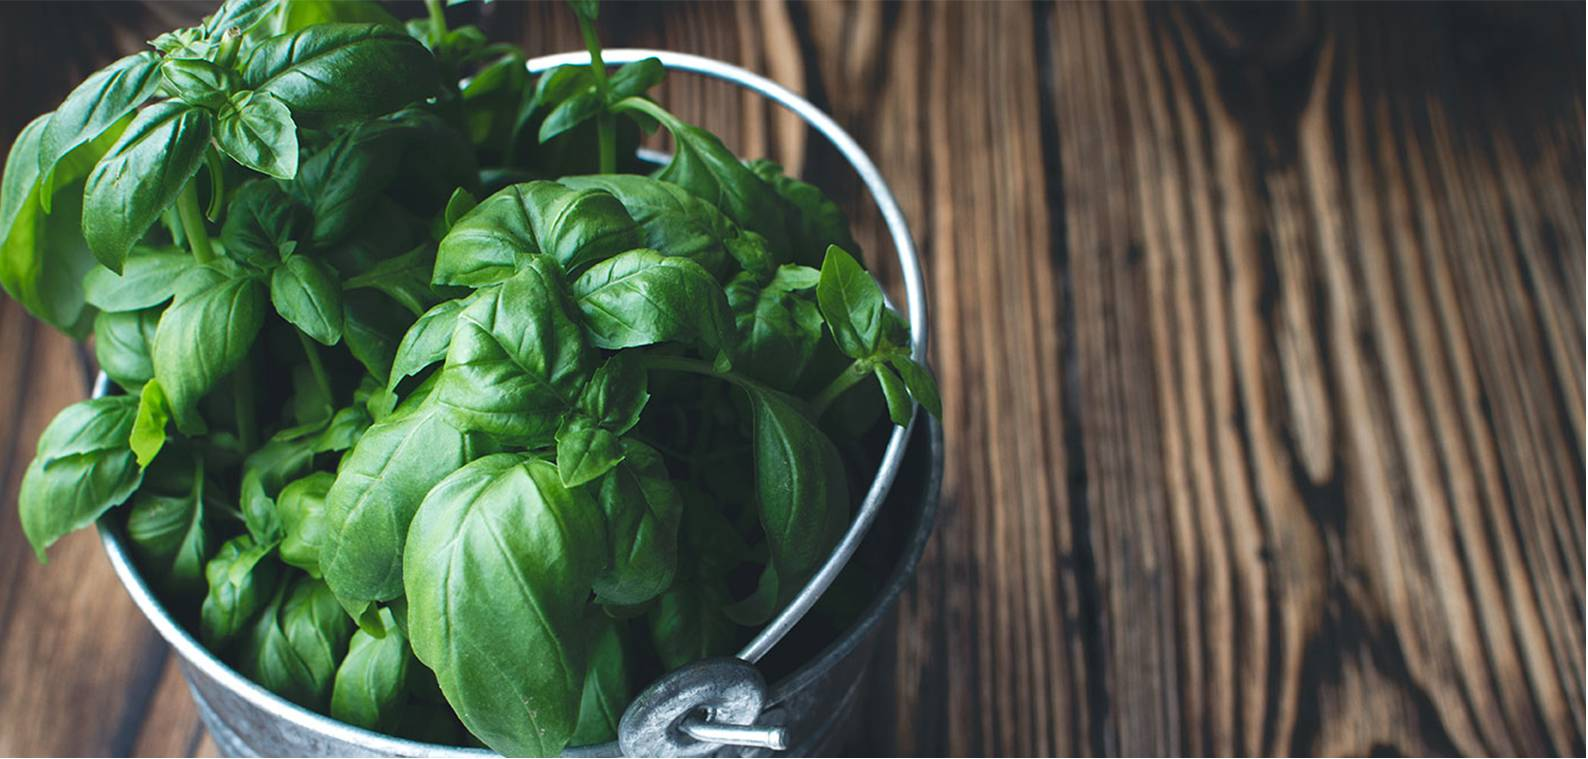
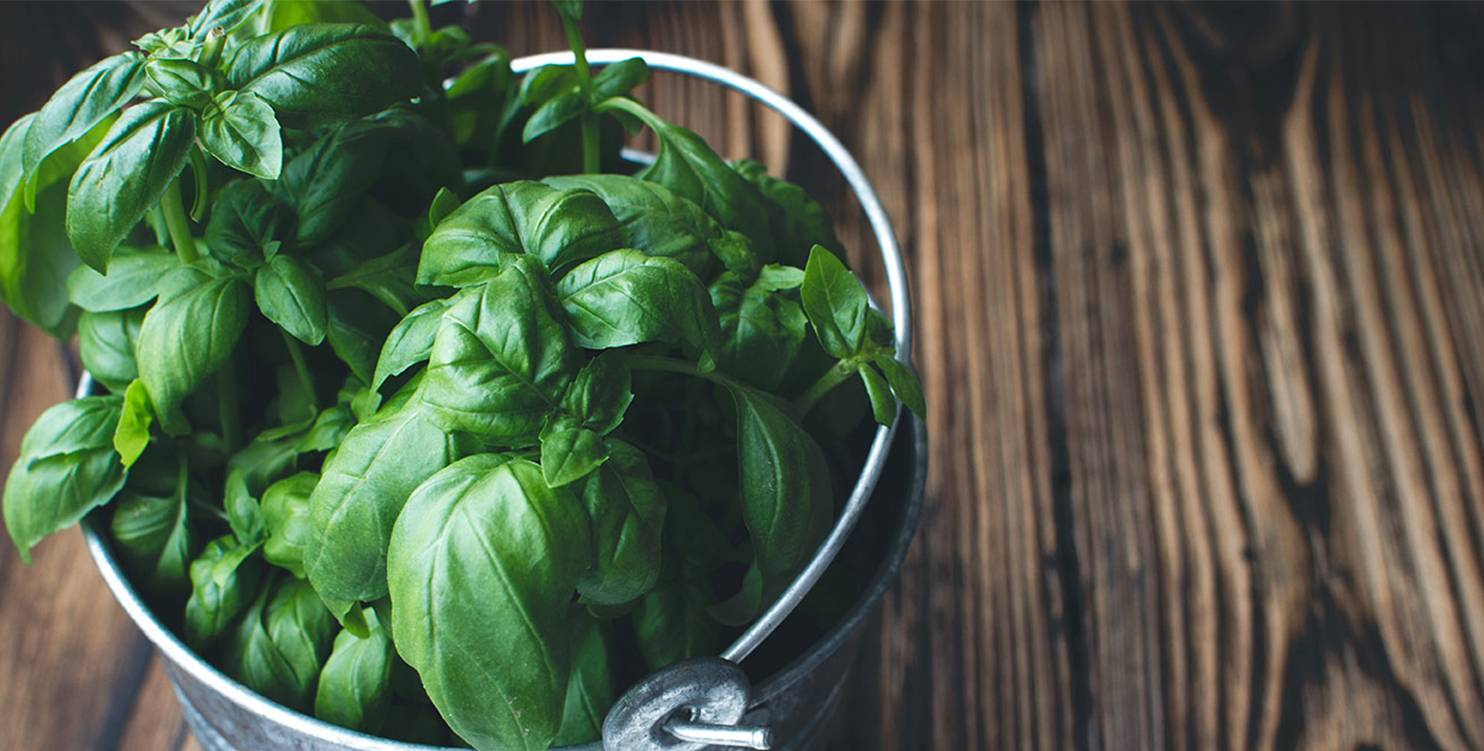
добавил изменения в разметку и стили

diff --git a/sass/common/_ingredients.sass b/sass/common/_ingredients.sass
@@ -1,45 +1,33 @@
-.ingredients 
-    background: url(../img/vase.jpg) 
-   
+
+// .ingredients 
+//         background: url(../img/ingredients.jpg) right 0 / cover
+//         width: 100%
 .ingredients__group 
-    background: rgba(0, 0, 0, .5) 
-    text-align: center
-    width: 50%
-    margin-left: auto
-    max-width: 570px
-    max-height: 557px
-.image__decor 
-        height: 30px 
-.ingredients__container
-        display: flex
+        text-align: center
+        background: rgba(0, 0, 0, .5)
+        // +media(768px)
+        //         background: url(../img/ingred1.jpg)
 
-.ingredients 
-        --fill-dark: #ffff
         
-
 .ingredients__title 
         font-family: "Yeseva One"
         font-weight: 400
-        padding-top: 50px
-        font-size: 2.25rem
+        font-size: 1.5rem
         color: #ffffff
+        +media(768px) 
+                font-size: 2.25rem
+
+
+.ingredients
+        --fill-dark: #ffff
+
+
 .ingredients__text 
         font-family: "Lato"
         font-weight: 400
         font-size: 1rem
         line-height: 1.5rem
-        color: #ffffff
-.ingredients__top
-        font-family: "Lato"
-        font-weight: 400
-        font-size: 1rem
-        line-height: 1.5rem
-        color: #ffffff
-        list-style: none
-.ingredients__images 
-        padding-bottom: 20px
-        
-.cinnamon__img
-        margin-left: 10px
-.loaf__img 
-        margin-left: 10px
+        color: #ffffff       
+
+.res-img 
+        width: 100%

diff --git a/index.html b/index.html
@@ -78,7 +78,12 @@
             </div>
         </section>
         <section class="ingredients">
-            <div class="container ingredients__container">
+            <img srcset="img/bg500-500.jpg 500w,
+                         img/bg1000-1000.jpg 1000w,
+                         img/bg1500-1500.jpg 1500w"
+
+            src="img/ingredients.jpg" alt="" class="res-img">
+            <!-- <div class="container ingredients__container">
                 <div class="ingredients__group">
                     <h3 class="ingredients__title">Fine ingredients</h3>
                     <svg xmlns="http://www.w3.org/2000/svg" class="image__decor">
@@ -97,7 +102,7 @@
                         <span class="loaf__img"><img src="img/loaf.png" alt="loaf"></span>
                     </div>
                 </div>
-            </div>
+            </div> --> 
         </section>
         <section class="menu">
             <div class="container">

diff --git a/sass/common/_about.sass b/sass/common/_about.sass
@@ -14,6 +14,10 @@
         line-height: 1.5rem
         color: #cc9900
         font-weight: 400
+        +media(320px)
+            font-size: 1.5rem
+        +media(768px) 
+            font-size: 2.25rem
     &__text 
         font-family: "Lato"
         font-weight: 400
@@ -28,8 +32,10 @@
 .about__images, .about__motto
     +media(1200px)
         flex-basis: 50%
-
-
-    
+.image__decor 
+    +media(320px)
+        width: 150px
+    +media(768px)
+        width: 200px
             
             

diff --git a/sass/style.css b/sass/style.css
@@ -776,10 +776,6 @@ html {
   color: #ffffff;
 }
 
-.res-img {
-  width: 100%;
-}
-
 .menu__group {
   display: grid;
   grid-template-columns: repeat(2, 1fr);
